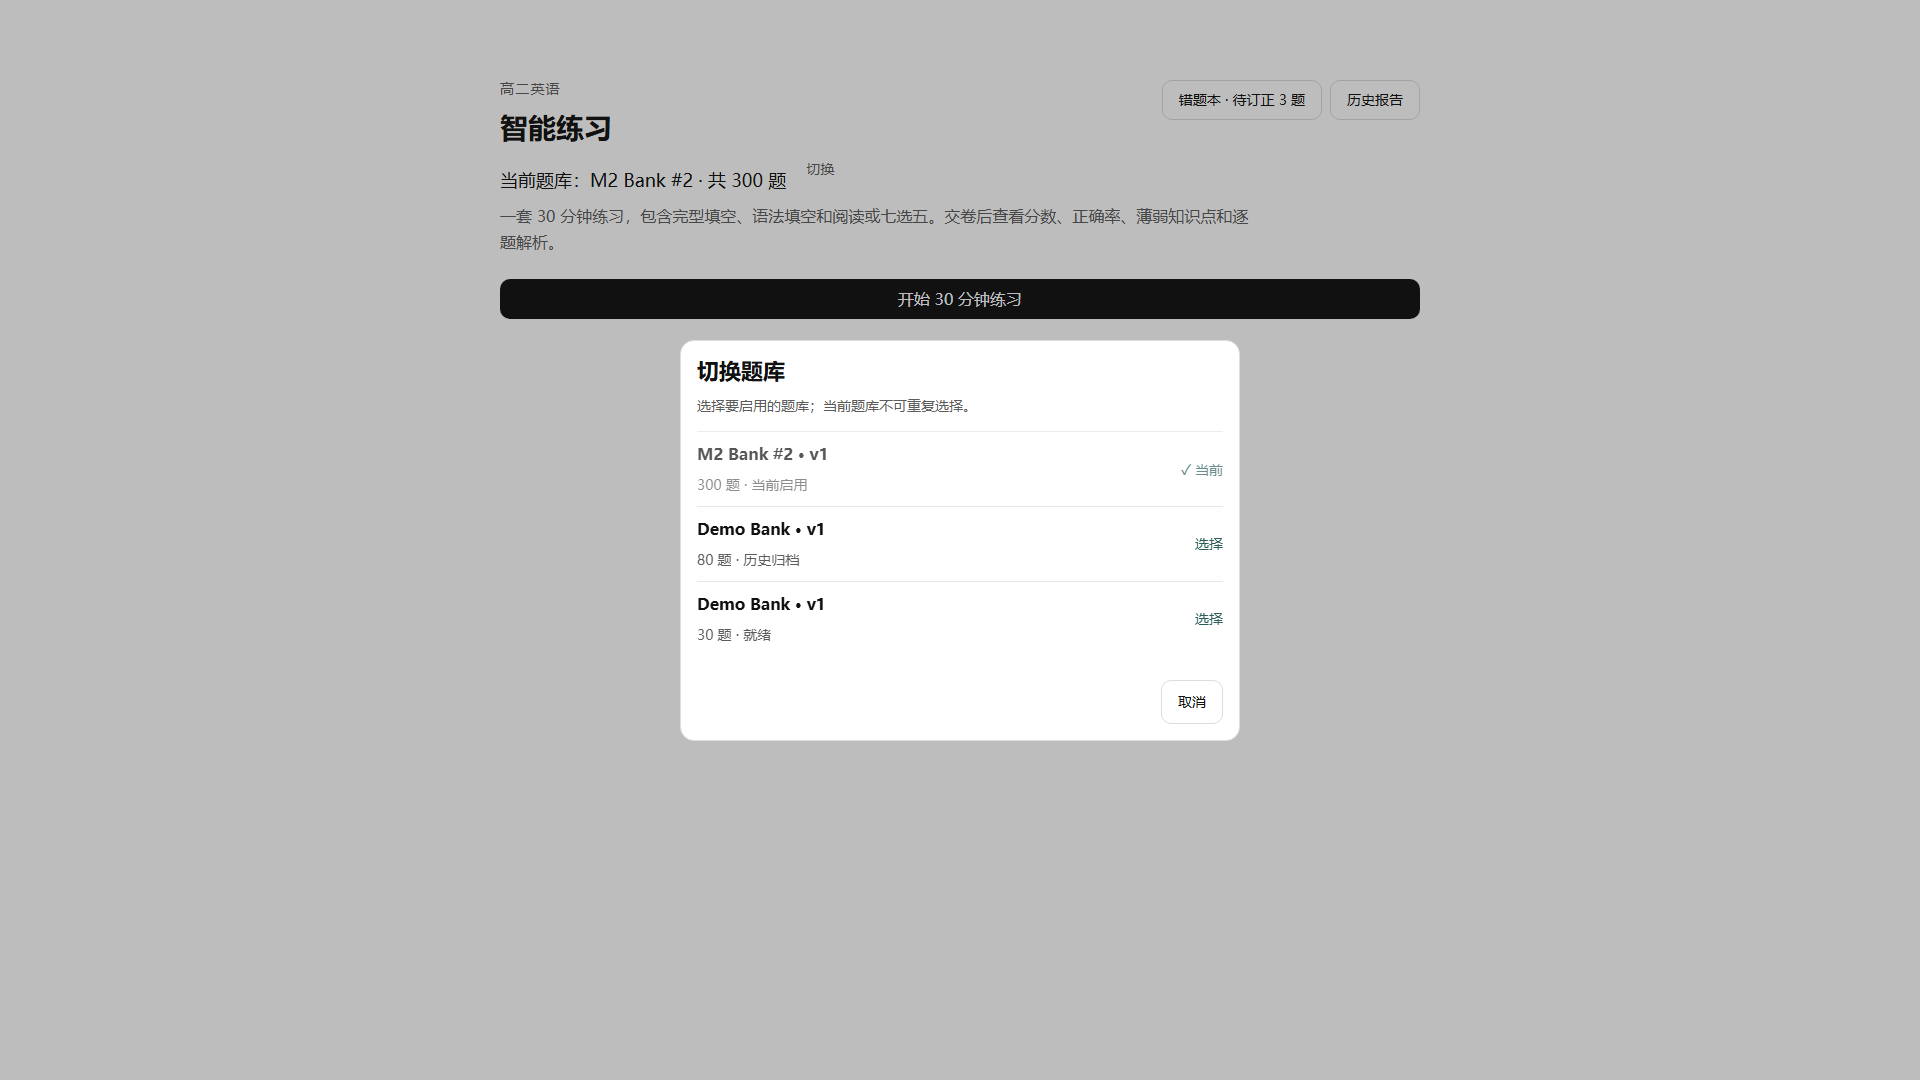
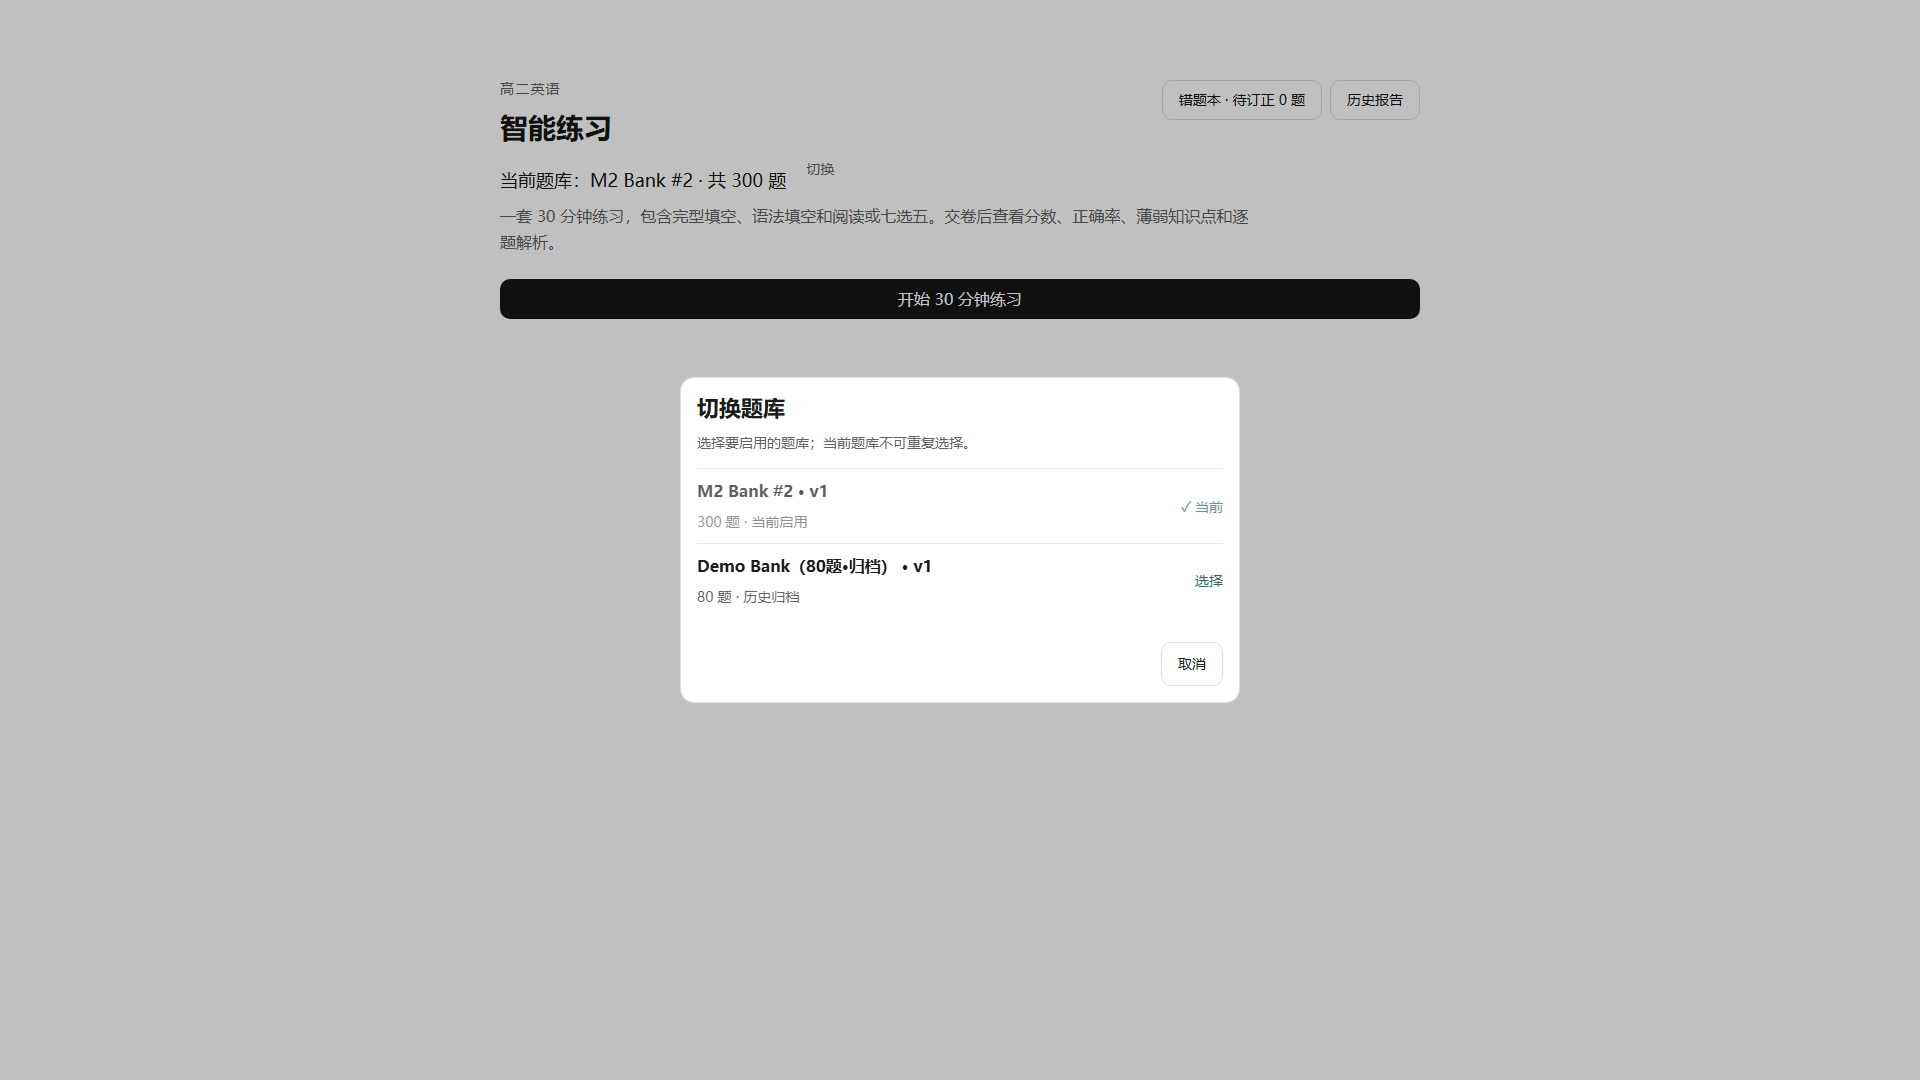
chore: close M2.5 rebuild and legacy bank gaps

Changed region(s): [[0.3438, 0.3056, 0.6562, 0.6111], [0.3438, 0.6111, 0.6562, 0.7028]]

diff --git a/tests/api/test_m25_mistake_book.py b/tests/api/test_m25_mistake_book.py
@@ -1172,6 +1172,31 @@ def test_m25_bank_activation_is_loopback_only_and_logged() -> None:
         activate_bank(original_bank_id)
 
 
+def test_m25_legacy_demo_is_unique_archived_and_not_switchable() -> None:
+    legacy_id = "00000000-0000-4000-8000-000000000001"
+    archived_m1_id = "00000000-0000-4000-8000-000000000002"
+    with psycopg.connect(database_url(), row_factory=dict_row) as connection:
+        rows = connection.execute(
+            """
+            SELECT id::text AS id, name, status, coverage_snapshot
+            FROM question_banks
+            WHERE id IN (%s, %s)
+            ORDER BY id
+            """,
+            (legacy_id, archived_m1_id),
+        ).fetchall()
+    by_id = {row["id"]: row for row in rows}
+    assert by_id[legacy_id]["name"] != by_id[archived_m1_id]["name"]
+    assert by_id[legacy_id]["status"] == "archived"
+    assert by_id[legacy_id]["coverage_snapshot"]["switchable"] is False
+
+    headers = student_headers()
+    payload = client.get("/api/v1/banks", headers=headers).json()
+    visible_ids = {bank["bank_id"] for bank in payload["banks"]}
+    assert legacy_id not in visible_ids
+    assert payload["current_bank_id"] in visible_ids
+
+
 def test_m25_in_progress_session_survives_bank_switch_and_keeps_bank_id() -> None:
     original_bank_id = store.bank["bank_id"]
     bank_a = create_test_bank("M25 Running A", ["M25-RUNNING-A-Q01"])

diff --git a/backend/app/mistakes.py b/backend/app/mistakes.py
@@ -576,6 +576,7 @@ def switchable_banks(
         FROM question_banks qb
         LEFT JOIN questions q ON q.bank_id=qb.id
         WHERE qb.status IN ('active', 'ready', 'archived')
+          AND COALESCE((qb.coverage_snapshot->>'switchable')::boolean, TRUE)
         GROUP BY qb.id, qb.name, qb.status, qb.target_size, qb.created_at
         ORDER BY (qb.id=%s) DESC, qb.created_at DESC
         """,

diff --git a/M2.5-status.md b/M2.5-status.md
@@ -1,10 +1,12 @@
 # M2.5 Status
 
 - 签字日期：2026-11-08
-- 签字范围：`e66cb42` → `3b3d7fb`
+- 签字范围：`e66cb42` → `f1d3c6c`
 - 状态：通过
 - Active bank：`M2 Bank #2`
 - Active bank 内容：47 篇 / 300 题
+
+`f1d3c6c` 范围内的收尾提交包含外键补齐、临时题库清理与审计证据落盘。
 
 ## 验收证据
 
@@ -16,6 +18,7 @@
   `qa/evidence/m25/browser-acceptance.json`
   `qa/evidence/m25-auth/bank-switch-acceptance.json`
 - 外键原文：`qa/evidence/m25-auth/pg-constraints.txt`
+- 空库迁移重建：`qa/evidence/m25-auth/fresh-db-comparison.json`
 - 查询/写入审计：`qa/evidence/m25-auth/query-write-audit.md`
 
 ## 最终切换候选
@@ -23,19 +26,21 @@
 | Bank | 题数 | 状态 |
 |---|---:|---|
 | M2 Bank #2 | 300 | active / 当前 |
-| Demo Bank | 80 | archived |
-| Demo Bank | 30 | ready |
+| Demo Bank（80题·归档） | 80 | archived |
 
-所有测试临时 bank 已从交付库物理删除。
+所有测试临时 bank 已从交付库物理删除。旧 30 题 Demo 保留为
+`Demo Bank（30题·旧版演示）` 且 `switchable=false`，不出现在切换候选中。
+它是最早的 30 题 bootstrap 演示库，后被 80 题 M1 Demo Bank 取代。
 
 ## 最终验证
 
-- pytest：122 passed，1 warning
+- pytest：123 passed，1 warning
 - M0_CHECK=PASS
 - API_CONTRACT_CHECK=PASS calls=20
 - OpenAPI valid
 - TypeScript typecheck 通过
 - 外键孤儿：0
+- 空库 001→002 与当前库均为 33 条外键，清单一致
 
 ## 已知限制
 
@@ -43,6 +48,8 @@
 - 未回填历史 743 次会话与 15413 条调试作答。
 - M3 扩库到 2000 题时必须复制当前 300 题并保留原 `question_id`，不得重新生成，
   否则错题本和覆盖统计会整体归零。
+- M3 扩库不得整库替换当前题目；必须增量追加。详见 `docs/待补齐清单.md`
+  的「M3 前置约束」。
 - 本签字范围内十个旧组卷样本仍使用题级 fallback；该既有限制不影响 M2.5。
 
 ## 授权记录

diff --git a/qa/evidence/m25-auth/acceptance-results.md b/qa/evidence/m25-auth/acceptance-results.md
@@ -2,12 +2,33 @@
 
 生成日期：2026-11-08
 
+## Z1. 迁移可重建立
+
+在一次性空库 `english_practice_z1_121202` 上按顺序执行：
+
+```text
+001_initial.sql
+002_mistake_book.sql
+```
+
+结果：
+
+```text
+fresh database foreign keys = 33
+current database foreign keys = 33
+equal = true
+```
+
+- 新库清单：`fresh-db-foreign-keys.txt`
+- 当前库清单：`current-db-foreign-keys.txt`
+- 比对结果：`fresh-db-comparison.json`
+
 ## G. 换库
 
 | 判据 | 实际输出 |
 |---|---|
 | G1 | 首页与覆盖统计均显示 `M2 Bank #2 · 共 300 题`，来源同为 `GET /stats/coverage` |
-| G2 | 弹窗列出 active / ready / archived；当前项显示 `✓ 当前` 且 disabled |
+| G2 | 数据库存在 active / ready / archived；切换弹窗只列真实可切换库，当前项显示 `✓ 当前` 且 disabled |
 | G3 | 归档库确认弹窗显示新旧库名称/题数、覆盖口径、错题迁移、历史报告、立即生效、取消，以及 `1` 个未完成练习提示 |
 | G4 | 取消前后均为 `M2 Bank #2 / total=300` |
 | G5 | `bank_switch_log` 有 M2→目标库、目标库→M2 两行，`operator=student_ui`，时间存在 |
@@ -21,11 +42,12 @@
 
 ```text
 M2 Bank #2  300题  active   current
-Demo Bank    80题  archived
-Demo Bank    30题  ready
+Demo Bank（80题·归档） 80题 archived
 ```
 
 最终列表截图：`bank-list-final.png`。
+旧 `Demo Bank（30题·旧版演示）` 保留为 archived 且 `switchable=false`，
+不出现在孩子可见的切换列表中。来源是原始 30 题 bootstrap 演示库。
 
 ## P1. 外键
 
@@ -129,7 +151,7 @@ contracts/openapi.yaml is valid
 ## 回归
 
 ```text
-pytest: 122 passed, 1 warning
+pytest: 123 passed, 1 warning
 M0_CHECK=PASS
 API_CONTRACT_CHECK=PASS calls=20
 OpenAPI: valid

diff --git a/CHANGELOG.md b/CHANGELOG.md
@@ -230,4 +230,4 @@
 - 首页题库名称/题数统一取 `GET /stats/coverage`，并新增题库切换入口与两阶段确认。
 - 重做页、覆盖条和两个 maintenance 弹窗均重新浏览器验收。
 - 新增 questions 复合主键补授权记录、外键完整性审计和查询/写入路径审计。
-- 最终回归：122 passed、M0 PASS、API contract PASS calls=20、OpenAPI valid。
+- 最终回归：123 passed、M0 PASS、API contract PASS calls=20、OpenAPI valid。

diff --git a/qa/evidence/m25/acceptance-results.md b/qa/evidence/m25/acceptance-results.md
@@ -64,7 +64,7 @@
 
 | 判据 | 实际输出 |
 |---|---|
-| F1 | `122 passed, 1 warning` |
+| F1 | `123 passed, 1 warning` |
 | F2 | `M0_CHECK=PASS` |
 | F3 | `API_CONTRACT_CHECK=PASS calls=20` |
 | F4 | `contracts/openapi.yaml is valid` |

diff --git a/M2-status.md b/M2-status.md
@@ -90,7 +90,7 @@ strict four-rule pass.
 
 ## Verification
 
-- pytest: 122 passed.
+- pytest: 123 passed.
 - `M0_CHECK=PASS`
 - `API_CONTRACT_CHECK=PASS calls=20`
 - Accepted-generation ledger: CNY 3.063101.
